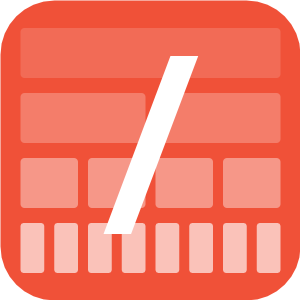
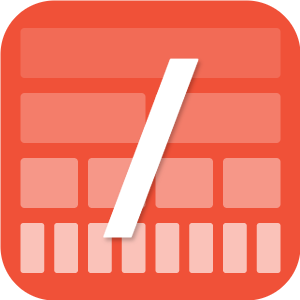
docs: refresh README infrastructure positioning

diff --git a/README.md b/README.md
@@ -13,11 +13,11 @@ and POSIX boundaries.
 The core models are currency types: public value types intended to be
 stored, passed, and composed throughout network infrastructure software.
 
-**Swift for Network Control.** `swift-cidr` is a foundation for Swift
-applications that model, validate, and control IP networks. Built from the
-network model outward, it provides type-safe foundations for IP infrastructure
-software: routing, addressing, policy, validation, configuration, and
-control-plane data.
+**Swift for Network Infrastructure.** `swift-cidr` is a foundation for Swift
+applications that model, validate, configure, and operate on IP networks. Built
+from the network model outward, it provides type-safe foundations for IP
+infrastructure software: routing, addressing, policy, validation,
+configuration, and control-plane data.
 
 `swift-cidr` brings native CIDR currency types to Swift on Server, apps,
 services, tooling, and network control-plane systems. It is not "Swift
@@ -33,9 +33,9 @@ and other systems that process high-volume IP data or control-plane state.
 
 ## Why CIDR
 
-- Family-safe APIs make IPv4 and IPv6 boundaries explicit with
-  `IPAddress<AF.V4>`, `IPAddress<AF.V6>`, `IPNetwork<AF.V4>`, and
-  `IPNetwork<AF.V6>`.
+- Family-safe APIs expose familiar IPv4 and IPv6 names like `IPv4Address`,
+  `IPv6Address`, `IPv4Network`, and `IPv6Network`, while keeping
+  address-family boundaries explicit in the type system.
 - `AddressFamily` models selected IANA address-family values as compile-time
   traits instead of runtime tags, carrying storage width, parser, formatter, and
   IANA family metadata in the type system.
@@ -90,6 +90,11 @@ terminology rather than package-specific interpretations:
 - [RFC 4632](https://datatracker.ietf.org/doc/html/rfc4632) defines Classless
   Inter-Domain Routing notation, aggregation context, and the registry
   distinction between allocation and assignment.
+- [RFC 7020](https://datatracker.ietf.org/doc/html/rfc7020) describes the
+  Internet Numbers Registry System for globally unique IP address space and AS
+  numbers; that registry and delegation context is why `CIDRBlock` exists as a
+  neutral address-space block separate from host addresses and configured
+  network prefixes.
 - [RFC 5952](https://datatracker.ietf.org/doc/html/rfc5952) guides compressed
   IPv6 text formatting.
 - [RFC 2622](https://datatracker.ietf.org/doc/html/rfc2622#section-2) defines